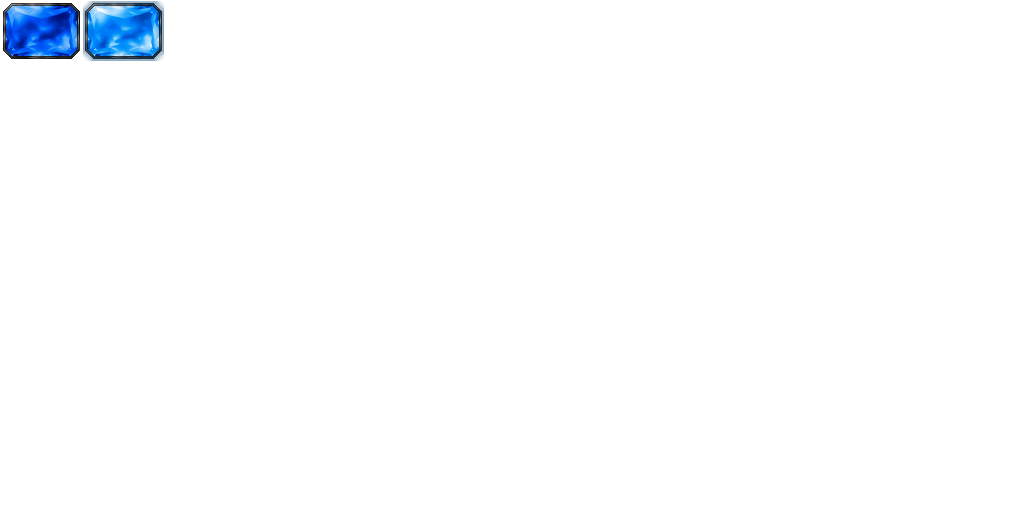
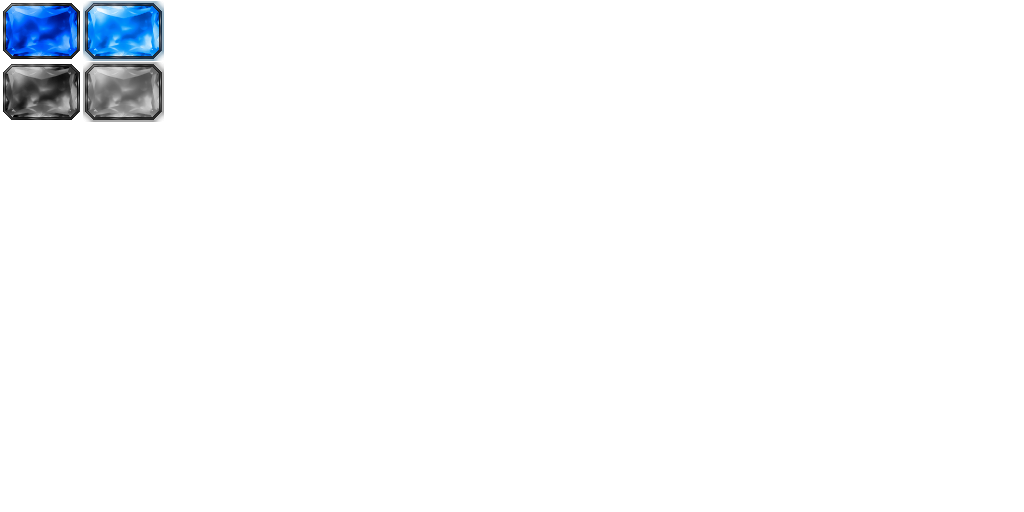
chore: add gray crystal button graphics

Changed region(s): [[0.0, 0.0938, 0.1875, 0.25]]

diff --git a/src/ui/common-controls.ts b/src/ui/common-controls.ts
@@ -39,9 +39,9 @@ export class CommonControls {
   };
 
   private CRYSTAL_BUTTON_STYLE: ButtonOptions = {
-    defaultView: 'btn_crystal_med_normal.png',
-    hoverView: 'btn_crystal_med_hover.png',
-    pressedView: 'btn_crystal_med_hover.png',
+    defaultView: 'btn_gray_crystal_normal.png',
+    hoverView: 'btn_gray_crystal_hover.png',
+    pressedView: 'btn_gray_crystal_hover.png',
     nineSliceSprite: [13, 13, 13, 13]
   };
 
@@ -126,6 +126,7 @@ export class CommonControls {
     this.menuButton.position.set(4, 4);
     this.menuButton.width = 130;
     this.menuButton.height = 48;
+    this.menuButton.tint = 0xFF9988;
     this.menuButton.text = new Text(
       { ...CommonControls.DEFAULT_FONT_STYLE, text: 'Menu', style: { fontSize: 16, fill: "#DDFFFF" } }
     );
